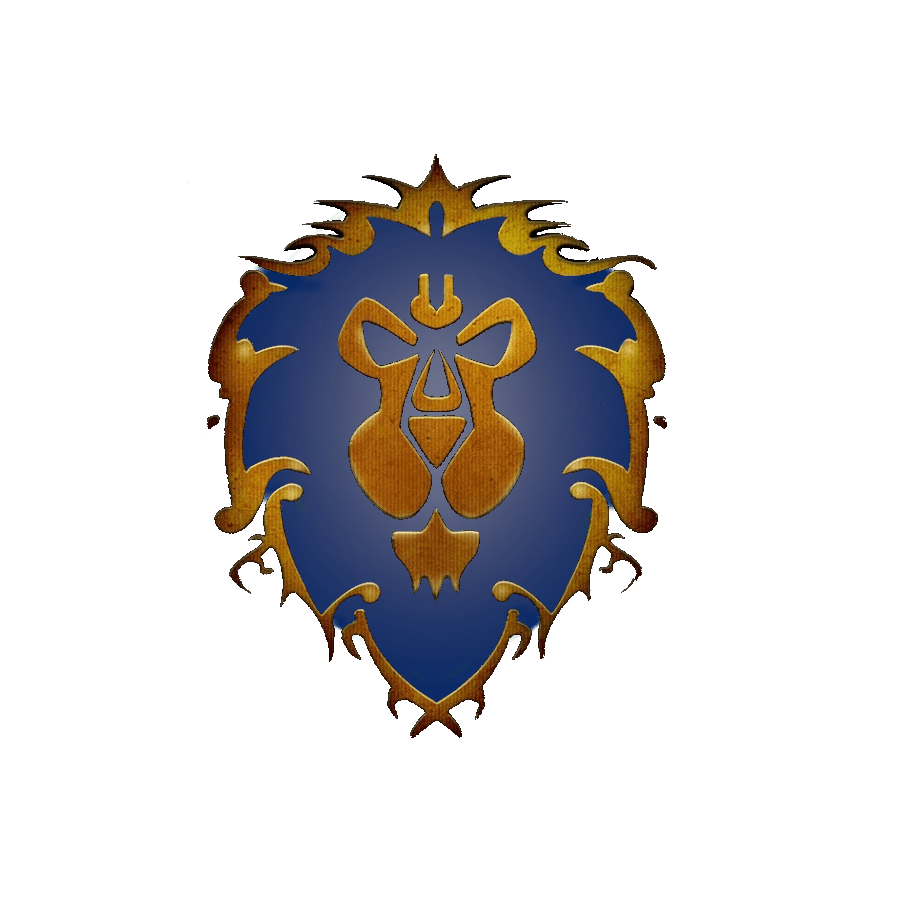
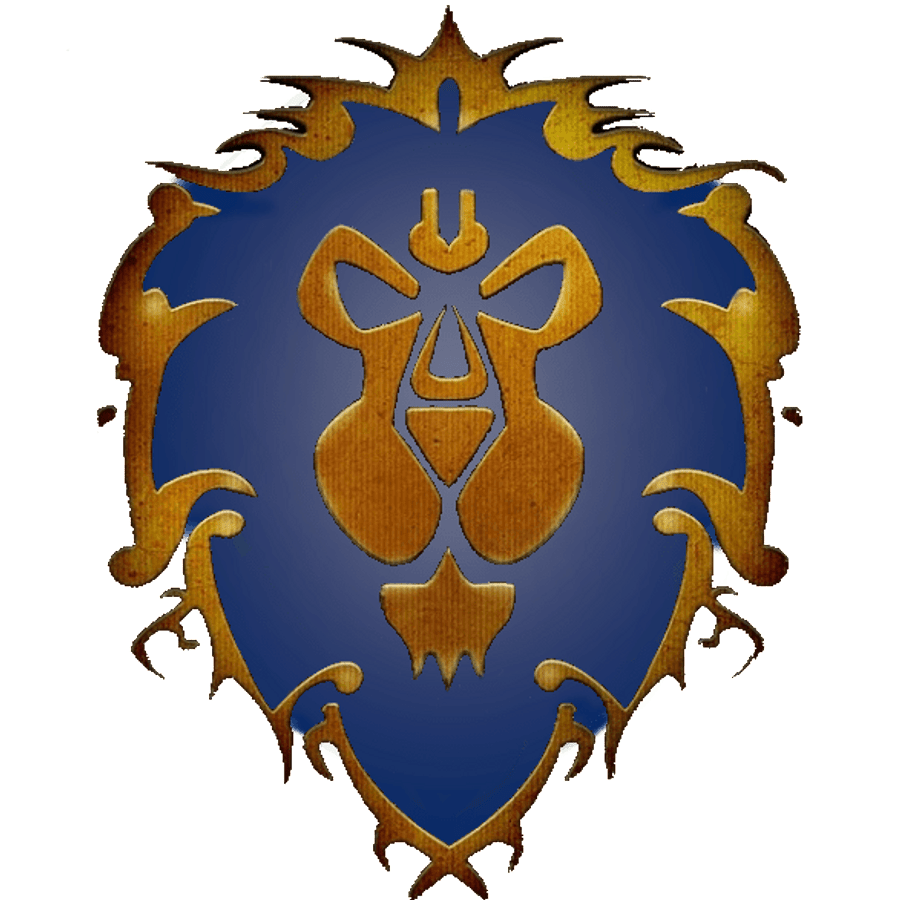
changing faction images size

diff --git a/src/App.css b/src/App.css
@@ -88,14 +88,14 @@
 
 .bgAlliance {
   background: left / contain no-repeat url('../src/img/alliance.png');
-  background-position-x: -267px;
+  background-position-x: -274px;
   background-position-y: center;
   /* padding: 0 !important; */
 }
 
 .bgHorde {
   background: left / contain no-repeat url('../src/img/horde.png');
-  background-position-x: -273px;
+  background-position-x: -282px;
   background-position-y: center;
   /* padding: 0 !important; */
 }
